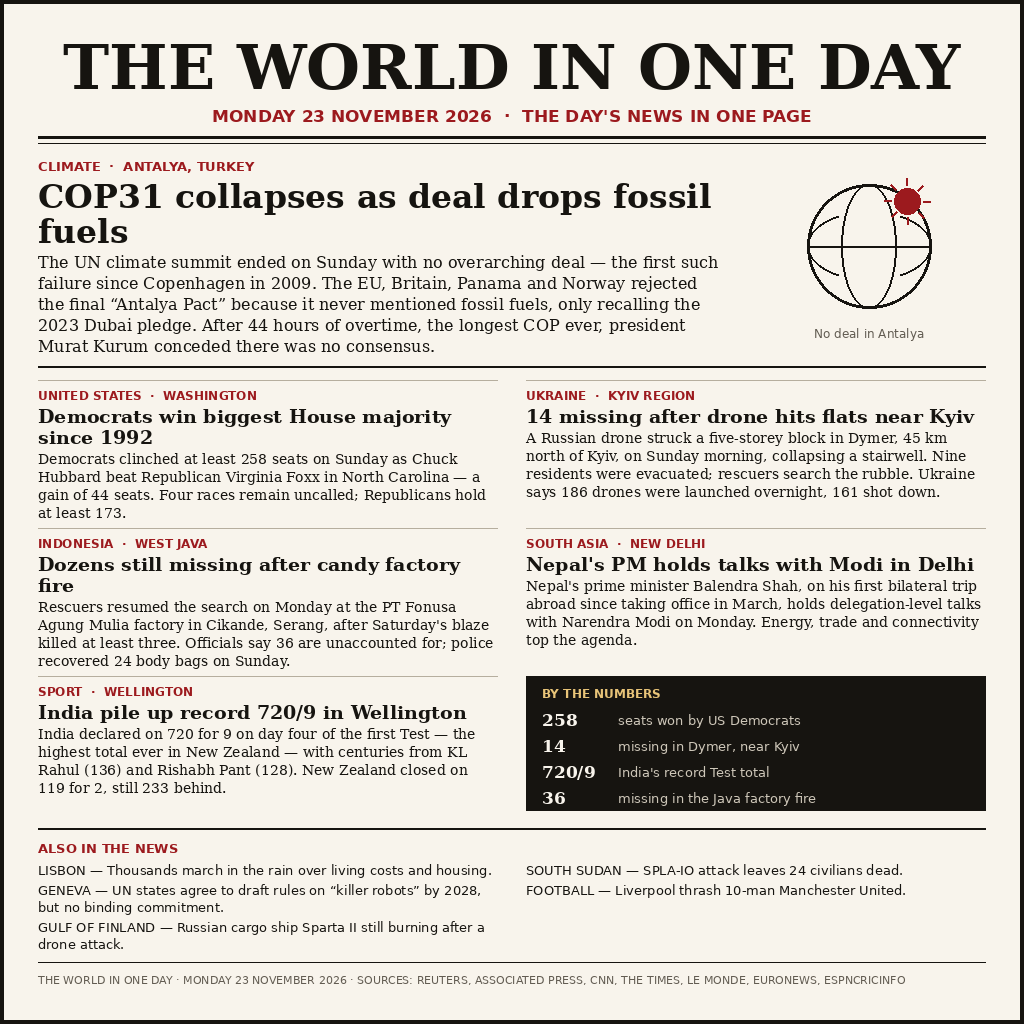
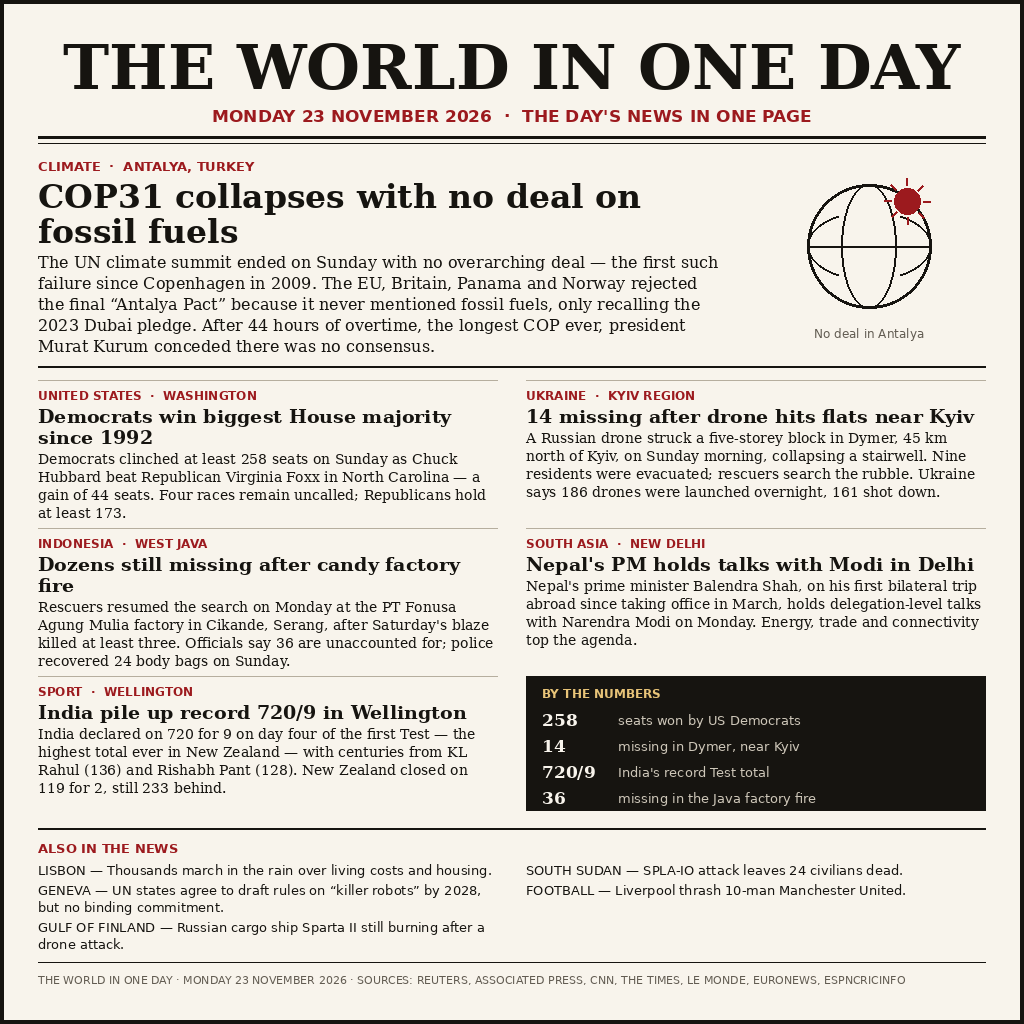
Tighten lead headline

Changed region(s): [[0.3438, 0.1562, 0.6875, 0.2188], [0.0625, 0.2188, 0.25, 0.25]]

diff --git a/draw.py b/draw.py
@@ -126,7 +126,7 @@ def main():
                fnt(SANS_B, 13), RED)
     ly += 6
     ly = block(d, MARGIN, ly,
-               split_lines(d, "COP31 collapses as deal drops fossil fuels",
+               split_lines(d, "COP31 collapses with no deal on fossil fuels",
                            fnt(SERIF_B, 33), lead_w),
                fnt(SERIF_B, 33), INK, 2)
     ly += 6
